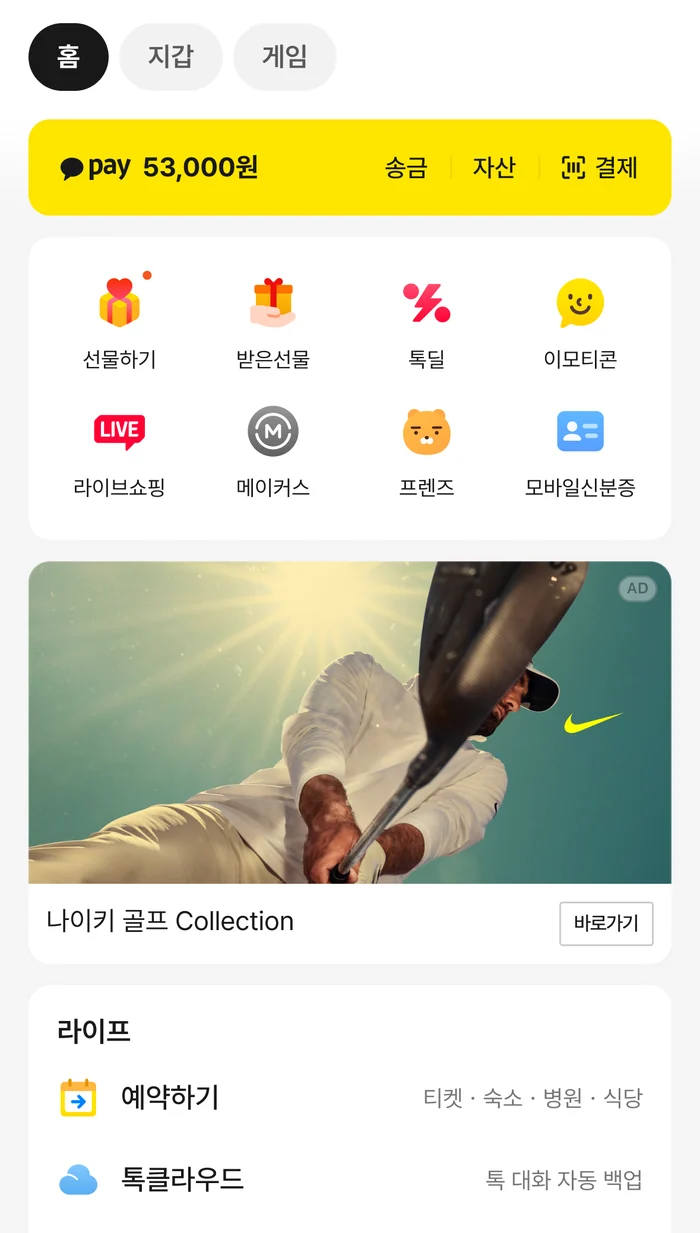
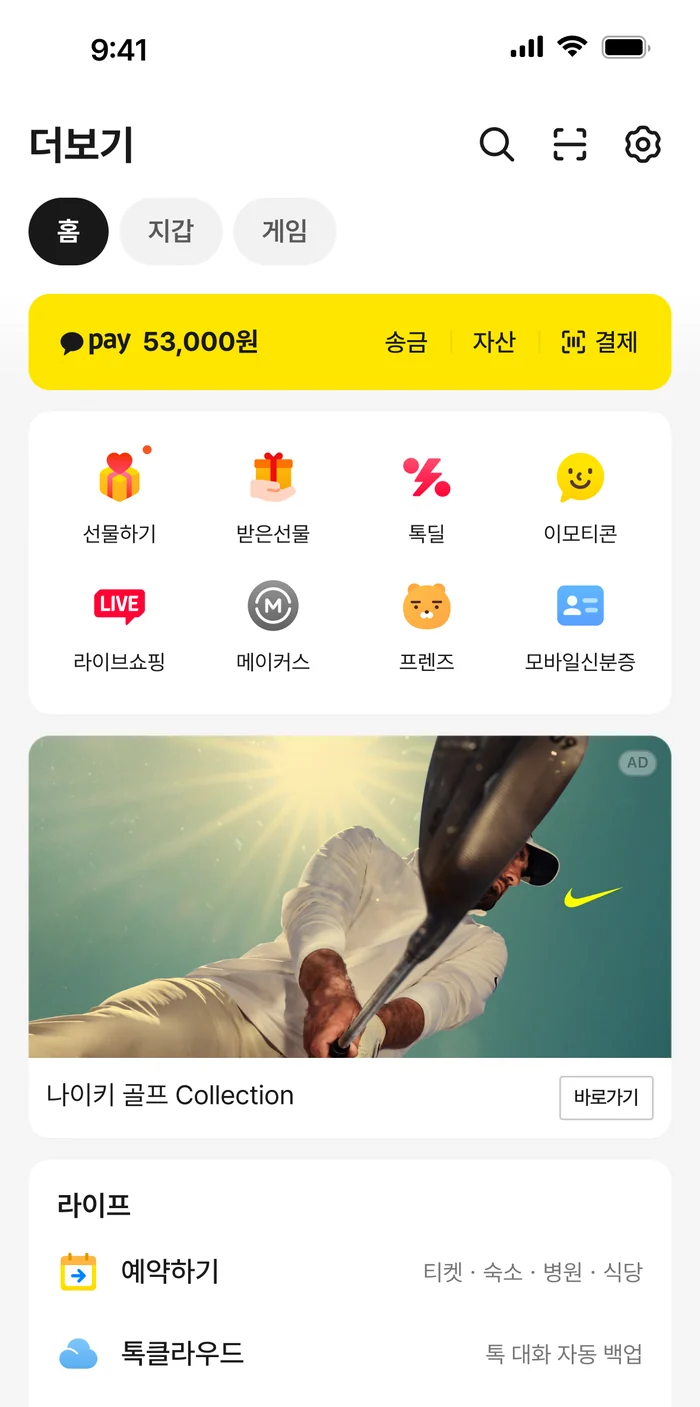
CASE 03 hero starts from the status bar and top GNB

diff --git a/grid-list-hybrid.html b/grid-list-hybrid.html
@@ -34,8 +34,8 @@
 
     <figure class="cs-hero">
       <picture>
-        <source media="(max-width:820px)" srcset="img/case03/hero-m.webp" width="700" height="1233">
-        <img src="img/case03/hero.webp" width="2240" height="1277" alt="실험안 D의 더보기탭 화면을 두 단으로 이어 보여준다. 왼쪽은 칩과 페이 영역, 4열 2행 서비스 그리드와 광고, 오른쪽은 그 아래 라이프 카테고리 리스트">
+        <source media="(max-width:820px)" srcset="img/case03/hero-m.webp" width="700" height="1407">
+        <img src="img/case03/hero.webp" width="2240" height="1491" alt="실험안 D의 더보기탭 화면을 두 단으로 이어 보여준다. 왼쪽은 상단 제목과 칩, 페이 영역, 4열 2행 서비스 그리드와 광고, 오른쪽은 그 아래 라이프 카테고리 리스트">
       </picture>
       <figcaption>실험안 D · 4×2 그리드와 그 아래 카테고리 리스트. 중간 결과를 바탕으로 정식화 기준안으로 검토하고 있으며, 최종 결과는 아직입니다.</figcaption>
     </figure>
